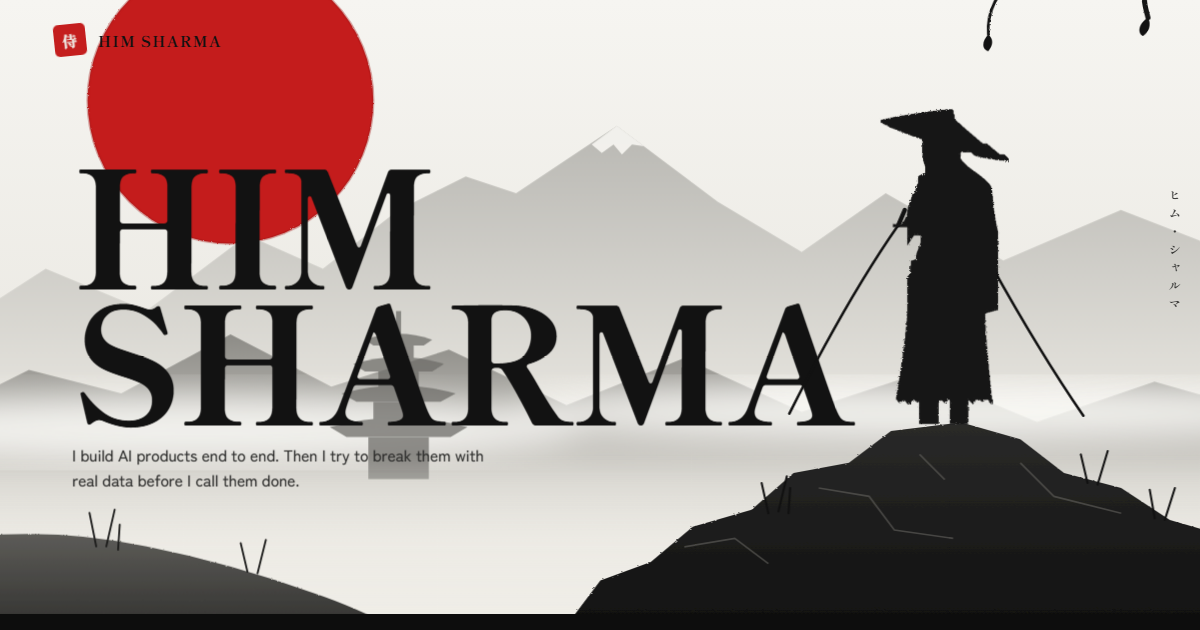
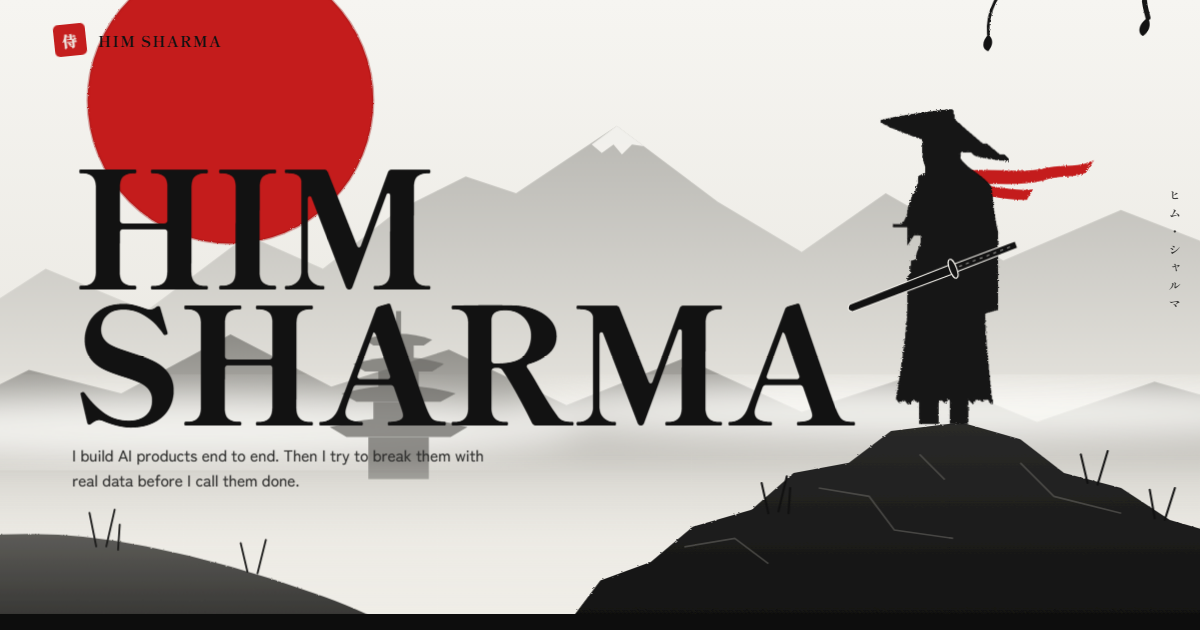
Samurai: one katana he draws on hover or tap, red scarf, strike on click
Replaces the two ski-pole swords with a single sheathed katana at the
hip (handle, guard, scabbard, paper outline so it reads against the
robe) and adds a red scarf that flutters in the wind.

Hovering him on desktop, or tapping him on a phone, draws the katana:
the sheathed handle slides out and the blade sweeps over his head into
a forward guard behind an ink swoosh, then a glint runs along the steel.
Leaving sheathes it again. Clicking or slashing him adds a lunge, an
ink afterimage, a scarf whip, ink splatter and a short screen shake.
The cursor becomes a red ring over him, and phones get a tap hint.

diff --git a/index.html b/index.html
@@ -112,8 +112,6 @@ nav.top a:hover::after{transform:scaleX(1);transform-origin:left}
 .samurai .scarf.s2{animation-duration:2s;animation-delay:-.6s}
 @keyframes scarf{50%{transform:rotate(-9deg) scaleX(1.06)}}
 
-.samurai .glint{animation:glint 4.5s ease-in-out infinite}
-@keyframes glint{0%,72%,100%{opacity:0}80%{opacity:1}}
 .leaf{transform-box:fill-box;transform-origin:0 0;animation:leaf 3.6s ease-in-out infinite alternate}
 @keyframes leaf{to{transform:rotate(14deg)}}
 .hero-foot{position:absolute;left:4.5vw;right:4.5vw;bottom:9vh;display:flex;justify-content:flex-end;z-index:5}
@@ -239,9 +237,28 @@ footer{background:var(--ink);color:#8d8c88;display:flex;justify-content:space-be
 @keyframes hint{0%{transform:scaleX(0)}40%{transform:scaleX(1)}100%{transform:scaleX(1);opacity:0}}
 .samurai .body{transform-box:fill-box;transform-origin:50% 100%;animation:breathe 4.2s ease-in-out infinite}
 @keyframes breathe{50%{transform:scaleY(1.012) scaleX(.995)}}
-.samurai.strike .blades{animation:strike .7s cubic-bezier(.2,.8,.2,1)}
-@keyframes strike{30%{transform:translate(0,-14px) rotate(-6deg)}100%{transform:none}}
-.samurai.strike .glint{animation:none;opacity:1}
+.samurai .ghost{opacity:0}
+.samurai .arc{stroke-dasharray:100;stroke-dashoffset:100;opacity:0}
+.samurai .kat{transform-origin:0 0;transition:transform .25s cubic-bezier(.2,.8,.2,1),opacity .15s .1s}
+.samurai.drawn .kat{transform:translate(14px,0);opacity:0;transition:transform .14s ease-in,opacity .06s .1s}
+.samurai .drawnsword{transform-origin:0 0;transform:rotate(-153deg) scale(.9);opacity:0;transition:transform .45s cubic-bezier(.7,0,.3,1),opacity .15s .3s}
+.samurai.drawn .drawnsword{transform:none;opacity:1;transition:transform .55s cubic-bezier(.2,.9,.3,1.12) .1s,opacity .06s .1s}
+.samurai .shine{opacity:0}
+.samurai.drawn .shine{animation:shine 2.6s .7s infinite}
+@keyframes shine{0%{opacity:0;transform:translate(10px,0) scale(.6)}12%{opacity:1;transform:translate(40px,-3px) scale(1)}30%{opacity:0;transform:translate(150px,-3px) scale(.6)}100%{opacity:0;transform:translate(150px,-3px)}}
+.samurai .scarf{transform-box:fill-box;transform-origin:0% 40%}
+.samurai.strike .body{animation:lunge .8s cubic-bezier(.2,.8,.2,1)}
+.samurai.strike .ghost{animation:ghost .7s ease-out}
+.samurai.swoosh .arc{animation:arc .55s .12s cubic-bezier(.7,0,.2,1)}
+.samurai.strike .scarf{animation:whip .8s cubic-bezier(.2,.8,.2,1)}
+@keyframes lunge{14%{transform:translate(-5px,3px) scale(1.02,.96)}34%{transform:translate(16px,0) skewX(-7deg)}62%{transform:translate(6px,0) skewX(-2deg)}100%{transform:none}}
+@keyframes ghost{0%{opacity:.5;transform:none}100%{opacity:0;transform:translate(-34px,0)}}
+@keyframes arc{0%{opacity:1;stroke-dashoffset:100}55%{opacity:1;stroke-dashoffset:0}100%{opacity:0;stroke-dashoffset:-30}}
+@keyframes whip{30%{transform:rotate(-14deg) scaleX(1.15)}60%{transform:rotate(5deg)}100%{transform:none}}
+.scene.shake{animation:shake .3s}
+@keyframes shake{20%{transform:translate(-4px,2px)}40%{transform:translate(4px,-2px)}60%{transform:translate(-3px,1px)}80%{transform:translate(2px,0)}}
+.cur.sam{width:46px;height:46px;background:transparent;border:1.5px solid var(--red)}
+.touch .hint{display:flex;color:#d8d6cf}
 .cutflash{position:fixed;inset:0;z-index:69;pointer-events:none;background:radial-gradient(circle at var(--fx,50%) var(--fy,50%),rgba(196,30,30,.18),transparent 40%);opacity:0;transition:opacity .5s}
 .cutflash.on{opacity:1;transition:none}
 .narrow .branch{display:none}
@@ -382,11 +399,29 @@ nav.top a.cv{color:var(--red)}
         <g stroke="#111" stroke-width="2.4" stroke-linecap="round"><path d="M1000 760 L992 724"/><path d="M1012 758 L1022 716"/><path d="M1024 760 L1026 730"/><path d="M1380 724 L1372 690"/><path d="M1392 726 L1404 686"/><path d="M1460 766 L1454 732"/><path d="M1472 768 L1484 730"/></g>
         <g class="samurai" transform="translate(1210 654) scale(1.2)">
           <!-- figure cut from "Samurai and red dragon" by andsproject on Pixabay (Pixabay Content License) -->
-          <g class="blades"><g stroke="#121212" stroke-linecap="round" fill="none">
-            <path d="M-44 -190 C-72 -150 -104 -98 -148 -10" stroke-width="2.4"/><path d="M-44 -190 L-38 -204" stroke-width="4.2"/>
-            <path d="M44 -152 C64 -116 92 -66 132 -8" stroke-width="2.4"/><path d="M44 -152 L38 -166" stroke-width="4.2"/></g>
-          <path class="glint" d="M98 -60 L104 -72 L106 -61 L116 -58 L106 -54 L104 -43 L101 -54 L90 -56Z" fill="#fff"/></g>
[1 lines of base64/hex data omitted]
+          <!-- red scarf in the wind, behind the body -->
+          <g class="scarf" fill="#c41e1e" filter="url(#inked)"><path d="M14 -240 C40 -246 70 -236 98 -244 C114 -248 128 -244 142 -252 L134 -240 C120 -234 108 -238 94 -232 C68 -224 40 -232 16 -226 Z"><animate attributeName="d" dur="2.6s" repeatCount="indefinite" calcMode="spline" keyTimes="0;.33;.66;1" keySplines=".45 0 .55 1;.45 0 .55 1;.45 0 .55 1" values="M14 -240 C40 -246 70 -236 98 -244 C114 -248 128 -244 142 -252 L134 -240 C120 -234 108 -238 94 -232 C68 -224 40 -232 16 -226 Z;M14 -240 C40 -240 70 -250 98 -240 C114 -234 128 -238 142 -232 L136 -222 C120 -226 108 -224 94 -228 C68 -238 40 -226 16 -226 Z;M14 -240 C40 -250 70 -244 98 -250 C114 -254 128 -258 144 -262 L136 -248 C120 -246 108 -246 94 -240 C68 -232 40 -238 16 -226 Z;M14 -240 C40 -246 70 -236 98 -244 C114 -248 128 -244 142 -252 L134 -240 C120 -234 108 -238 94 -232 C68 -224 40 -232 16 -226 Z"/></path><path d="M18 -230 C42 -228 62 -220 84 -224 L78 -214 C58 -212 40 -218 18 -220 Z"><animate attributeName="d" dur="2.1s" repeatCount="indefinite" calcMode="spline" keyTimes="0;.33;.66;1" keySplines=".45 0 .55 1;.45 0 .55 1;.45 0 .55 1" values="M18 -230 C42 -228 62 -220 84 -224 L78 -214 C58 -212 40 -218 18 -220 Z;M18 -230 C42 -232 62 -228 84 -216 L76 -208 C58 -218 40 -222 18 -220 Z;M18 -230 C42 -224 62 -214 84 -212 L80 -202 C58 -206 40 -214 18 -220 Z;M18 -230 C42 -228 62 -220 84 -224 L78 -214 C58 -212 40 -218 18 -220 Z"/></path></g>
+          <use href="#samBody" class="ghost"/>
[1 lines of base64/hex data omitted]
+          <!-- sheathed daisho at the hip: the handles stick out in front, the scabbards behind -->
+          <g class="swords">
+            <defs><linearGradient id="steel" x1="0" y1="0" x2="0" y2="1"><stop offset="0" stop-color="#f4f4f1"/><stop offset=".5" stop-color="#b3b2ad"/><stop offset="1" stop-color="#5e5d5a"/></linearGradient></defs>
+            <!-- sheathed: scabbard stays at the hip, the handle slides out and hides when he draws -->
+            <g transform="translate(8 -148) rotate(-21)">
+              <path d="M-2 -4 L-104 -3.2 Q-109 0 -104 3.2 L-2 4Z" fill="#121212" stroke="#efede7" stroke-width="2.2" paint-order="stroke" stroke-linejoin="round"/>
+              <g class="kat"><path d="M2 -3.4 L64 -3 L64 3 L2 3.4Z" fill="#121212" stroke="#efede7" stroke-width="2.2" paint-order="stroke" stroke-linejoin="round"/><path d="M6 0 L61 0" stroke="#efede7" stroke-width="1.1" stroke-dasharray="3 4" opacity=".55"/><ellipse cx="0" cy="0" rx="2.8" ry="9" fill="#121212" stroke="#efede7" stroke-width="2.2" paint-order="stroke" stroke-linejoin="round"/></g>
+            </g>
+            <!-- drawn: held at the front of the body, blade forward and slightly down -->
+            <g transform="translate(54 -166) rotate(24)"><g class="drawnsword">
+              <path d="M2 -3.4 Q78 -7.2 150 -2.6 L157 0.2 Q80 -0.2 2 3.4 Z" fill="url(#steel)" stroke="#121212" stroke-width="1.3"/><path d="M6 -1.2 Q78 -4.6 146 -1.6" fill="none" stroke="#3a3a38" stroke-width=".8" opacity=".7"/>
+              <path d="M8 1.5 Q80 -1.6 148 -0.8" fill="none" stroke="#ffffff" stroke-width="1.1" opacity=".95"/>
+              <path d="M-34 -3.3 L-2 -3.4 L-2 3.4 L-34 3.3Z" fill="#121212" stroke="#efede7" stroke-width="2.2" paint-order="stroke" stroke-linejoin="round"/><path d="M-31 0 L-5 0" stroke="#efede7" stroke-width="1.1" stroke-dasharray="3 4" opacity=".55"/>
+              <ellipse cx="0" cy="0" rx="2.8" ry="9.5" fill="#121212" stroke="#efede7" stroke-width="2.2" paint-order="stroke" stroke-linejoin="round"/>
+              <path class="shine" d="M0 -7 L1.6 -1.6 L7 0 L1.6 1.6 L0 7 L-1.6 1.6 L-7 0 L-1.6 -1.6Z" fill="#fff"/>
+            </g></g>
+          </g>
+          <path class="arc" pathLength="100" d="M-36 -206 C50 -262 170 -244 226 -128" fill="none" stroke="#121212" stroke-width="6" filter="url(#inked)" stroke-linecap="round"/>
+          <path class="arc" pathLength="100" d="M-36 -198 C50 -252 166 -236 218 -124" fill="none" stroke="#c41e1e" stroke-width="2.5" stroke-linecap="round"/>
         </g>
         <!-- branch from the top right -->
         <g class="branch" fill="none" stroke="#121212" stroke-linecap="round" filter="url(#inked)">
@@ -495,7 +530,8 @@ nav.top a.cv{color:var(--red)}
   const lerp = (a, b, t) => a + (b - a) * t;
   const $ = s => document.querySelector(s), $$ = s => [...document.querySelectorAll(s)];
   let mx = innerWidth / 2, my = innerHeight / 2;
-  if (fine) document.documentElement.classList.add('cc');
+  if (fine) document.documentElement.classList.add('cc'); else document.documentElement.classList.add('touch');
+  { const h = document.querySelector('.hint'); if (h) h.lastChild.textContent = fine ? 'Drag to slash, or click the samurai' : 'Tap the samurai'; }
   $('#yr').textContent = new Date().getFullYear();
 
   /* email is put together here so scrapers reading the HTML do not see it */
@@ -603,18 +639,33 @@ nav.top a.cv{color:var(--red)}
   function markActive() { let idx = 0; secs.forEach((s, i) => { if (s.getBoundingClientRect().top < innerHeight * .45) idx = i; }); plates.forEach((p, i) => p.classList.toggle('active', i === idx)); }
 
   /* katana slash: click and drag to draw an ink blade trail; cutting the samurai makes him react */
-  const fx = $('#slashfx'), fctx = fx.getContext('2d'), flash = $('#cutflash'); let trail = [], dragging = false;
+  const fx = $('#slashfx'), fctx = fx.getContext('2d'), flash = $('#cutflash'); let trail = [], dragging = false, downAt = null, drops = [];
   function fxSize() { const d = devicePixelRatio || 1; fx.width = innerWidth * d; fx.height = innerHeight * d; fctx.setTransform(d, 0, 0, d, 0, 0); }
   fxSize(); addEventListener('resize', fxSize);
-  addEventListener('mousedown', e => { if (e.button !== 0 || !e.target.closest('.hero') || e.target.closest('a,button,input,textarea')) return; e.preventDefault(); dragging = true; trail = [{ x: e.clientX, y: e.clientY, t: performance.now() }]; });
+  addEventListener('mousedown', e => { if (e.button !== 0 || !e.target.closest('.hero') || e.target.closest('a,button,input,textarea')) return; e.preventDefault(); dragging = true; downAt = { x: e.clientX, y: e.clientY }; trail = [{ x: e.clientX, y: e.clientY, t: performance.now() }]; });
   addEventListener('mousemove', e => { if (dragging) trail.push({ x: e.clientX, y: e.clientY, t: performance.now() }); });
+  const inSam = (x, y) => { const r = sam.getBoundingClientRect(); return x > r.left && x < r.right && y > r.top && y < r.bottom; };
+  function cutFlash(x, y) { flash.style.setProperty('--fx', x + 'px'); flash.style.setProperty('--fy', y + 'px'); flash.classList.add('on'); setTimeout(() => flash.classList.remove('on'), 60); }
+  /* hover (desktop) or tap: he draws the katana; it goes back into the scabbard once you leave */
+  let drawnUntil = 0, leftAt = 0;
+  function swoosh() { sam.classList.remove('swoosh'); void sam.getBoundingClientRect(); sam.classList.add('swoosh'); }
+  function setDrawn(on) { if (on === sam.classList.contains('drawn')) return; sam.classList.toggle('drawn', on); if (on) swoosh(); }
+  /* click, slash or tap: draw plus lunge, afterimage, scarf whip, ink splatter and a small shake */
+  function strike(x, y) {
+    sam.classList.remove('strike'); void sam.getBoundingClientRect(); sam.classList.add('strike');
+    if (sam.classList.contains('drawn')) swoosh(); else setDrawn(true);
+    drawnUntil = performance.now() + 2600;
+    const sc = $('#scene'); sc.classList.remove('shake'); void sc.offsetWidth; sc.classList.add('shake');
+    for (let i = 0; i < 26; i++) { const a = Math.random() * 6.283, v = 2 + Math.random() * 7; drops.push({ x, y, vx: Math.cos(a) * v, vy: Math.sin(a) * v - 2, r: 1 + Math.random() * 3.2, t: performance.now(), red: Math.random() < .2 }); }
+    cutFlash(x, y);
+  }
   addEventListener('mouseup', () => {
     if (!dragging) return; dragging = false;
-    const r = document.querySelector('.samurai').getBoundingClientRect();
-    const hit = trail.some(p => p.x > r.left && p.x < r.right && p.y > r.top && p.y < r.bottom);
-    if (trail.length > 3) { const m = trail[trail.length >> 1]; flash.style.setProperty('--fx', m.x + 'px'); flash.style.setProperty('--fy', m.y + 'px'); flash.classList.add('on'); setTimeout(() => flash.classList.remove('on'), 60); }
-    if (hit) { const sm = document.querySelector('.samurai'); sm.classList.remove('strike'); void sm.getBoundingClientRect(); sm.classList.add('strike'); }
+    if (trail.length <= 3) { if (downAt && inSam(downAt.x, downAt.y)) strike(downAt.x, downAt.y); return; }
+    const m = trail[trail.length >> 1]; cutFlash(m.x, m.y);
+    const h = trail.find(p => inSam(p.x, p.y)); if (h) strike(h.x, h.y);
   });
+  addEventListener('click', e => { if (!fine && inSam(e.clientX, e.clientY)) strike(e.clientX, e.clientY); });
   function drawSlash() {
     const now = performance.now(); trail = trail.filter(p => now - p.t < 380);
     fctx.clearRect(0, 0, innerWidth, innerHeight);
@@ -624,6 +675,12 @@ nav.top a.cv{color:var(--red)}
       fctx.beginPath(); fctx.moveTo(a.x, a.y); fctx.lineTo(b.x, b.y); fctx.stroke();
       fctx.strokeStyle = `rgba(196,30,30,${life * .8})`; fctx.lineWidth = w * .35;
       fctx.beginPath(); fctx.moveTo(a.x, a.y - w * .4); fctx.lineTo(b.x, b.y - w * .4); fctx.stroke();
+    }
+    drops = drops.filter(d => now - d.t < 900);
+    for (const d of drops) {
+      d.vy += .35; d.x += d.vx; d.y += d.vy; d.vx *= .97; const life = 1 - (now - d.t) / 900;
+      fctx.fillStyle = d.red ? `rgba(196,30,30,${life})` : `rgba(18,18,18,${life * .85})`;
+      fctx.beginPath(); fctx.ellipse(d.x, d.y, d.r * 1.4, d.r, Math.atan2(d.vy, d.vx), 0, 6.283); fctx.fill();
     }
   }
 
@@ -701,6 +758,10 @@ nav.top a.cv{color:var(--red)}
     });
     const fr = finale.getBoundingClientRect();
     if (fr.top < innerHeight && fr.bottom > 0) finLayers.forEach(l => { const d = +l.dataset.depth; l.style.transform = `translate(${-smx * d * 500}px,${-smy * d * 200 + (fr.top / innerHeight) * d * 500}px)`; });
+    const over = fine && hr.bottom > 0 && inSam(mx, my);
+    if (fine) cursor.classList.toggle('sam', over);
+    if (over) { leftAt = 0; setDrawn(true); }
+    else if (sam.classList.contains('drawn') && performance.now() > drawnUntil) { leftAt = leftAt || performance.now(); if (performance.now() - leftAt > 450) { setDrawn(false); leftAt = 0; } }
     drawAsh(); drawSlash(); markActive();
     requestAnimationFrame(loop);
   }
